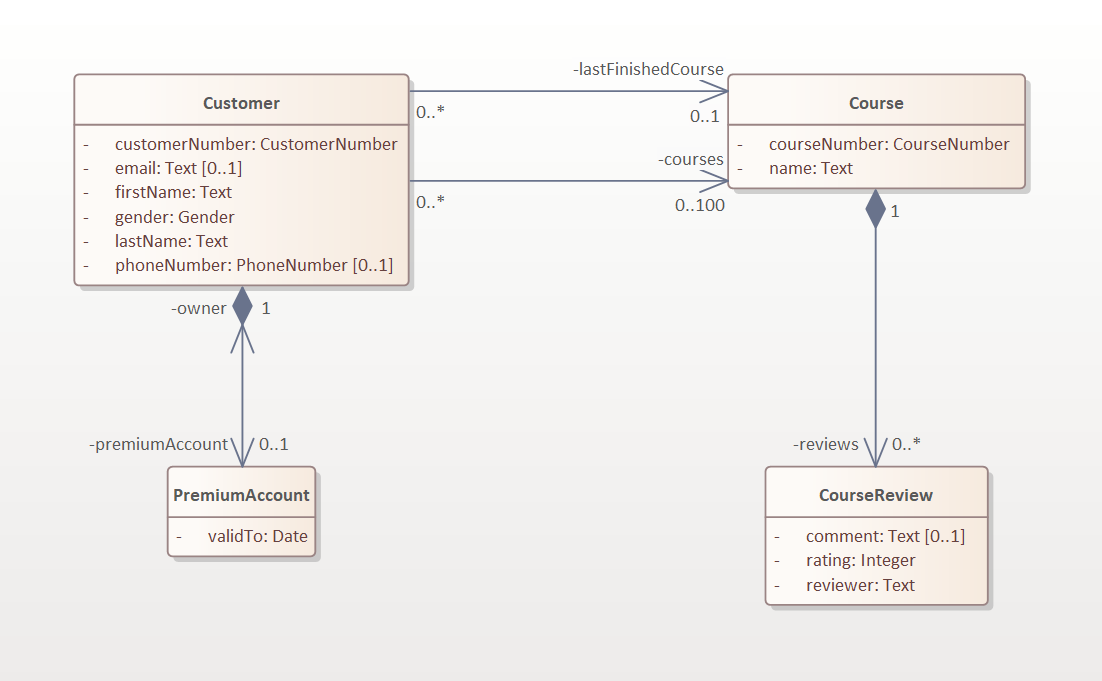
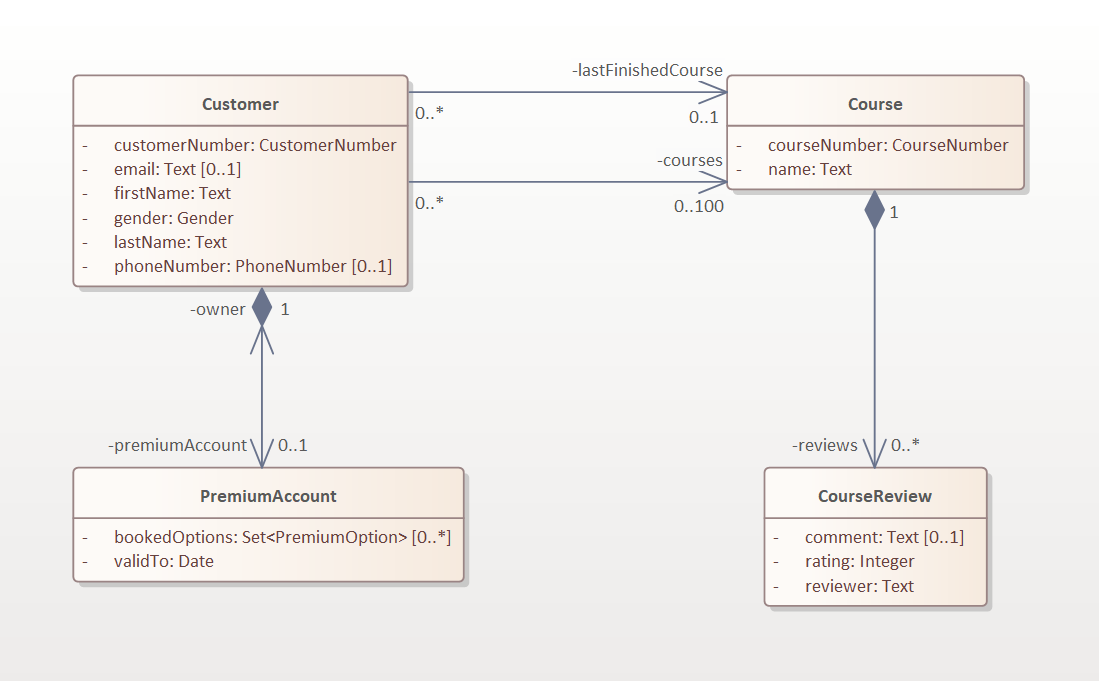
Added example for @ElementCollection in entity

diff --git a/src/main/java/com/haw/se1lab/dataaccess/api/entity/PremiumAccount.java b/src/main/java/com/haw/se1lab/dataaccess/api/entity/PremiumAccount.java
@@ -1,8 +1,14 @@
 package com.haw.se1lab.dataaccess.api.entity;
 
+import java.util.Collections;
 import java.util.Date;
+import java.util.HashSet;
+import java.util.Set;
 
+import javax.persistence.ElementCollection;
 import javax.persistence.Entity;
+import javax.persistence.EnumType;
+import javax.persistence.Enumerated;
 import javax.persistence.FetchType;
 import javax.persistence.GeneratedValue;
 import javax.persistence.Id;
@@ -11,9 +17,11 @@ import javax.validation.constraints.NotNull;
 
 import org.apache.commons.lang3.builder.ReflectionToStringBuilder;
 import org.apache.commons.lang3.builder.ToStringStyle;
+import org.springframework.util.Assert;
 
 import com.fasterxml.jackson.annotation.JsonIdentityInfo;
 import com.fasterxml.jackson.annotation.ObjectIdGenerators;
+import com.haw.se1lab.common.api.datatype.PremiumOption;
 
 /**
  * Represents a premium account of a customer. A premium account is a payed subscription which grants exclusive offers
@@ -56,6 +64,12 @@ public class PremiumAccount {
 	// default column name: VALID_TO
 	private Date validTo;
 
+	@Enumerated(EnumType.STRING) // causes the values of this enum-type field to be stored under the enum values' names
+	@ElementCollection( // marks this field as collection of non-entity values (stored in join table)
+			fetch = FetchType.EAGER // loads all elements when this entity is loaded (not only when accessing them)
+	)
+	private Set<PremiumOption> bookedOptions = new HashSet<>();
+
 	/* ---- Constructors ---- */
 
 	// default constructor (required by Hibernate)
@@ -93,6 +107,10 @@ public class PremiumAccount {
 		this.validTo = validTo;
 	}
 
+	public Set<PremiumOption> getBookedOptions() {
+		return Collections.unmodifiableSet(bookedOptions);
+	}
+
 	/* ---- Overridden Methods ---- */
 
 	// overridden to improve object representation in logging and debugging
@@ -102,5 +120,47 @@ public class PremiumAccount {
 	}
 
 	/* ---- Custom Methods ---- */
+
+	/**
+	 * Adds the given premium option to the booked options. If the option is already booked, nothing happens.
+	 * 
+	 * @param option the option to add; must not be <code>null</code>
+	 * @return <code>true</code> in case the option was added, <code>false</code> otherwise
+	 */
+	public boolean addBookedOption(PremiumOption option) {
+		// check preconditions
+		Assert.notNull(option, "Parameter 'option' must not be null!");
+
+		// check if option is already booked
+		boolean optionAlreadyBooked = bookedOptions.contains(option);
+
+		if (!optionAlreadyBooked) {
+			bookedOptions.add(option);
+			return true;
+		}
+
+		return false;
+	}
+
+	/**
+	 * Removes the given option from the booked options. If the option is not booked yet, nothing happens.
+	 * 
+	 * @param option the option to remove; must not be <code>null</code>
+	 * @return <code>true</code> in case the option was removed, <code>false</code> otherwise
+	 */
+	public boolean removeBookedOption(PremiumOption option) {
+		// check preconditions
+		Assert.notNull(option, "Parameter 'option' must not be null!");
+
+		// check if option is already booked
+		boolean optionBooked = bookedOptions.contains(option);
+
+		if (optionBooked) {
+			bookedOptions.remove(option);
+			return true;
+		}
+
+		return false;
+	}
 
 }

diff --git a/src/main/java/com/haw/se1lab/Application.java b/src/main/java/com/haw/se1lab/Application.java
@@ -13,6 +13,7 @@ import com.haw.se1lab.common.api.datatype.CourseNumber;
 import com.haw.se1lab.common.api.datatype.CustomerNumber;
 import com.haw.se1lab.common.api.datatype.Gender;
 import com.haw.se1lab.common.api.datatype.PhoneNumber;
+import com.haw.se1lab.common.api.datatype.PremiumOption;
 import com.haw.se1lab.dataaccess.api.entity.Course;
 import com.haw.se1lab.dataaccess.api.entity.CourseReview;
 import com.haw.se1lab.dataaccess.api.entity.Customer;
@@ -72,6 +73,8 @@ class InitialDataInsertionRunner implements CommandLineRunner {
 		customer.setLastFinishedCourse(course);
 
 		PremiumAccount premiumAccount = new PremiumAccount(customer, new Date(1893456000000L));
+		premiumAccount.addBookedOption(PremiumOption.EXTENDED_SUPPORT);
+		premiumAccount.addBookedOption(PremiumOption.VIP_AREA);
 		customer.setPremiumAccount(premiumAccount);
 
 		customerRepository.save(customer); // also saves premiumAccount

diff --git a/src/main/java/com/haw/se1lab/common/api/datatype/PremiumOption.java b/src/main/java/com/haw/se1lab/common/api/datatype/PremiumOption.java
@@ -1,0 +1,16 @@
+package com.haw.se1lab.common.api.datatype;
+
+/**
+ * Represents the bookable options for premium accounts.
+ * 
+ * @author Arne Busch
+ */
+public enum PremiumOption {
+
+	EXTENDED_SUPPORT,
+
+	NO_MINIMUM_CONTRACT_TERM,
+
+	VIP_AREA
+
+}
